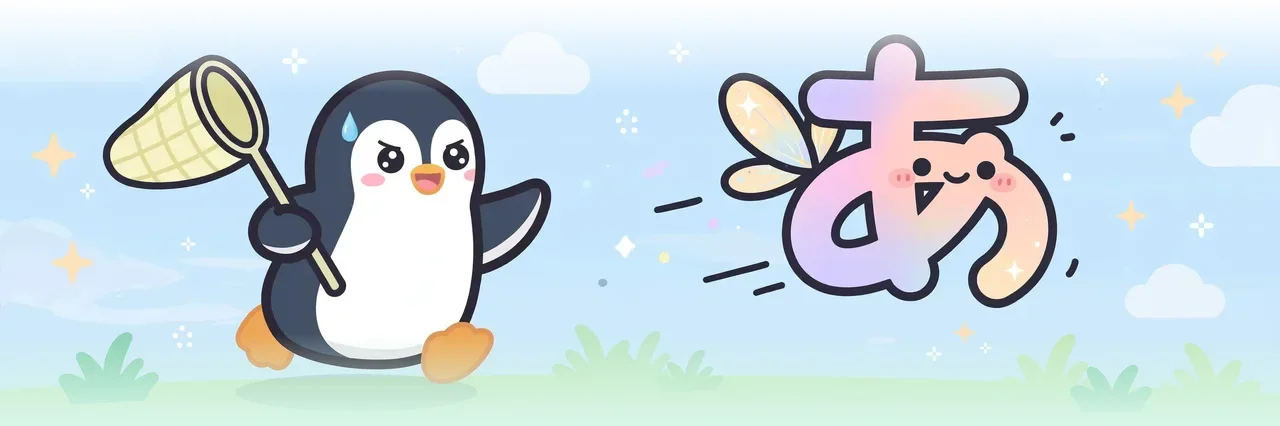
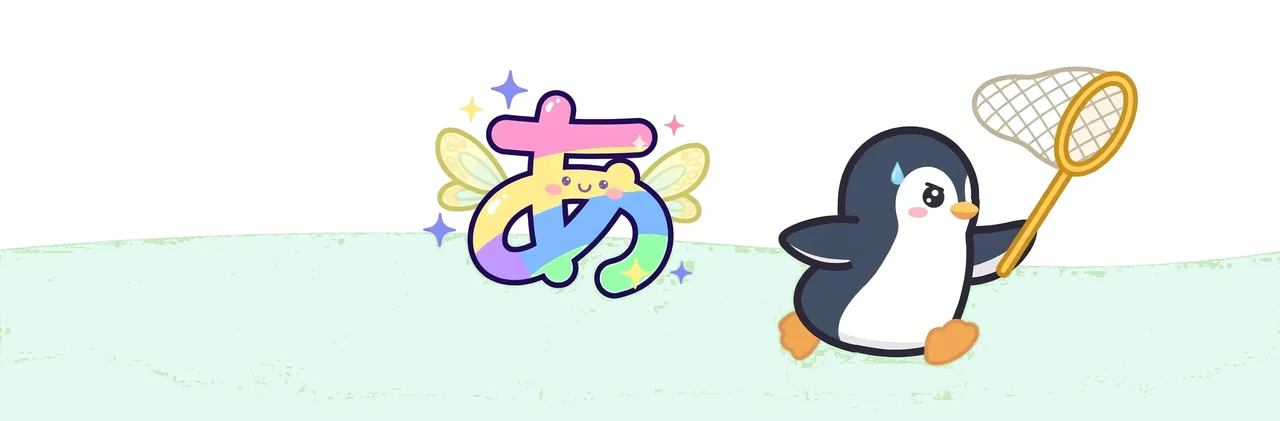
LP v5：区切りイラストを上下セクション色で描き直し (API sync)

diff --git a/client/lp.html b/client/lp.html
@@ -41,8 +41,8 @@
   .divider-full { display: block; width: 100%; height: auto; margin-top: 0; }
   .band-after-divider { margin-top: 0; }
   .band-white { background: #ffffff; }
-  .band-mint { background: linear-gradient(180deg, #eafff6, #d8f7e8); }
-  .band-sky { background: linear-gradient(180deg, #d8f2ff, #eafaff); }
+  .band-mint { background: #e3faf0; }
+  .band-sky { background: #ddf3ff; }
   h2 { font-size: 22px; font-weight: 800; text-align: center; margin-bottom: 8px; }
   .h2-sub { text-align: center; font-size: 14px; color: #40637f; margin-bottom: 24px; line-height: 1.8; }
   /* スクリーンショット */

diff --git a/docs/handover.md b/docs/handover.md
@@ -1437,3 +1437,4 @@ Cloudflare Pages デプロイは自動完結できず、おぎの操作待ち。
 - LP v2（同日）：おぎ要望「画像が豊富なLPに」で作り直し。ヒーローイラスト（生成・lp-hero.webp）とギフトイラスト（lp-gift.webp）を新規生成し、実際のゲーム画面スクショ4点（ロビー／待機室／話し合い／グループチャット、デモモードで撮影し client/img/lp-shot-*.webp に最適化）を掲載。結果画面はデモ表示文言が写るため不採用。生成マスターは ~/workspace/kotoba-jinrou-lite-data/lp/ に保管。
 - LP v3（同日）：ヒーローの吹き出しを人数分（5つ）にし、各吹き出しにカラフルな記号・文字（？／！／E／あ／♪）を入れた版に差し替え。セクション間に区切りイラスト2点を追加（虫とり網で「あ」を追うペンギン／手紙を届けるうさぎ、生成マスターは data/lp/ に保管）。
 - LP v4（同日）：区切りイラストの上下端を隣接セクション色へグラデーションで溶かし込み、セクション間の継ぎ目をなくした（おぎ提示のバンビーノLPの「違和感なく繋がる」区切りが参考）。
+- LP v5（同日）：区切りイラストを作り直し（v4のグラデ溶かし込みを廃止）。「上部＝上セクションの背景色／下部の地面・丘＝次セクションの背景色」で描いた絵に差し替え、セクション色も単色化（ミント #E3FAF0／水色 #DDF3FF）。端の色は生成色をサンプルしてセクション色へスナップし、継ぎ目なしにした。
